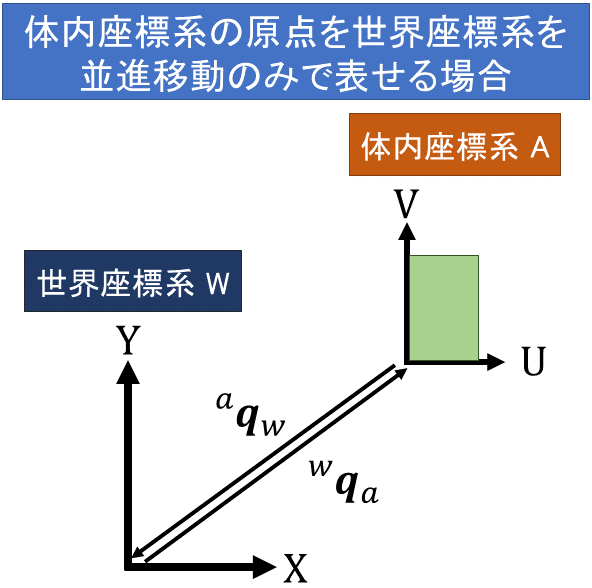
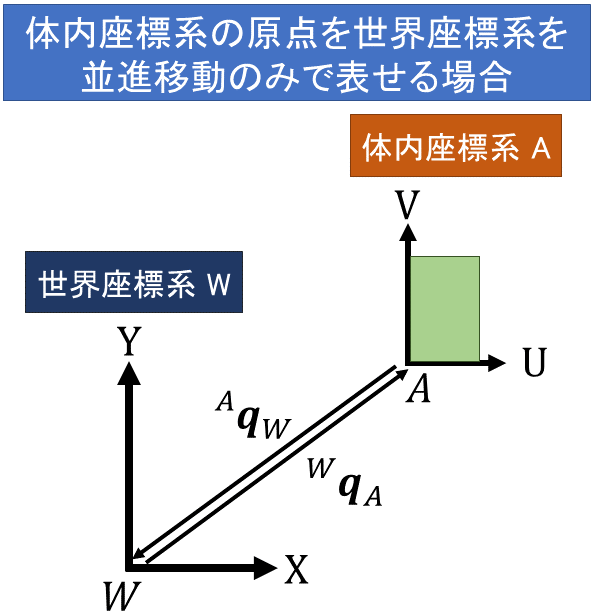
画像を同期

Changed region(s): [[0.0, 0.0, 1.0, 1.0], [0.0304, 0.398, 0.4257, 0.6735], [0.8818, 0.551, 0.9426, 0.6429]]

diff --git a/2021_0517.md b/2021_0517.md
@@ -30,9 +30,26 @@ theme: template
 2 つの異なる座標系で表現されたデータの関係を考えます。
 
 - ワールド座標系は、慣性空間に固定されています。
-- この座標系の原点を $x_w$ とする。体固定座標系は、姿勢を表現したい物体に固く固定されています。この座標系の原点を $x_b$ とする。
+- この座標系の原点を $W$ とする。体固定座標系は、姿勢を表現したい物体に固く固定されており，この座標系の原点を $A$ とする。
+- 世界座標系においてその原点 $W$ から体内固定座標系の原点 $A$ の位置ベクトルを $^W\bm{q}_A$ とする．反対に，体内固定座標系の原点 $A$ から世界座標系の原点 $W$ の位置ベクトルを $^A\bm{q}_W$ とする．
 
-体内固定座標で表現された点やベクトルは，世界座標で表現されたものとは素数記号で区別される。 例えば，$x$ が世界座標上の点であるならば，$x′$ は体部固定座標上で表現された同じ点である。言うまでもなく，$x_w$ と $x′_b$ はともにゼロであるが，$x′_w$ と $x_b$は一般的にはゼロではない。ここで，$x′_w$ は体側固定座標で表された世界座標の原点であり，$x_b$ は世界座標で表された体内固定座標の原点である。
+---
+
+![]
+
+世界座標系上のある点 $p$ が世界座標系上の位置 $^W\bm{p}$ に存在するとき，体内固定座標系上では $^A\bm{p}$ で与えられるとする．このとき， $^W\bm{p}$ は世界座標系において以下のように表される．
+
+$$
+^W\bm{p} = ^A\bm{p} + ^W\bm{q}_A
+$$
+一方，A座標系では以下のように表される．
+$$
+^A\bm{p} = ^A\bm{q}_W + ^W\bm{p}
+$$
+
+---
+
+例えば，ある点 $x$ が世界座標上の点であるならば，$x′$ は体部固定座標上で表現された同じ点である。言うまでもなく，$x_w$ と $x′_b$ はともにゼロであるが，$x′_w$ と $x_b$は一般的にはゼロではない。ここで，$x′_w$ は体側固定座標で表された世界座標の原点であり，$x_b$ は世界座標で表された体内固定座標の原点である。
 
 ---
 
